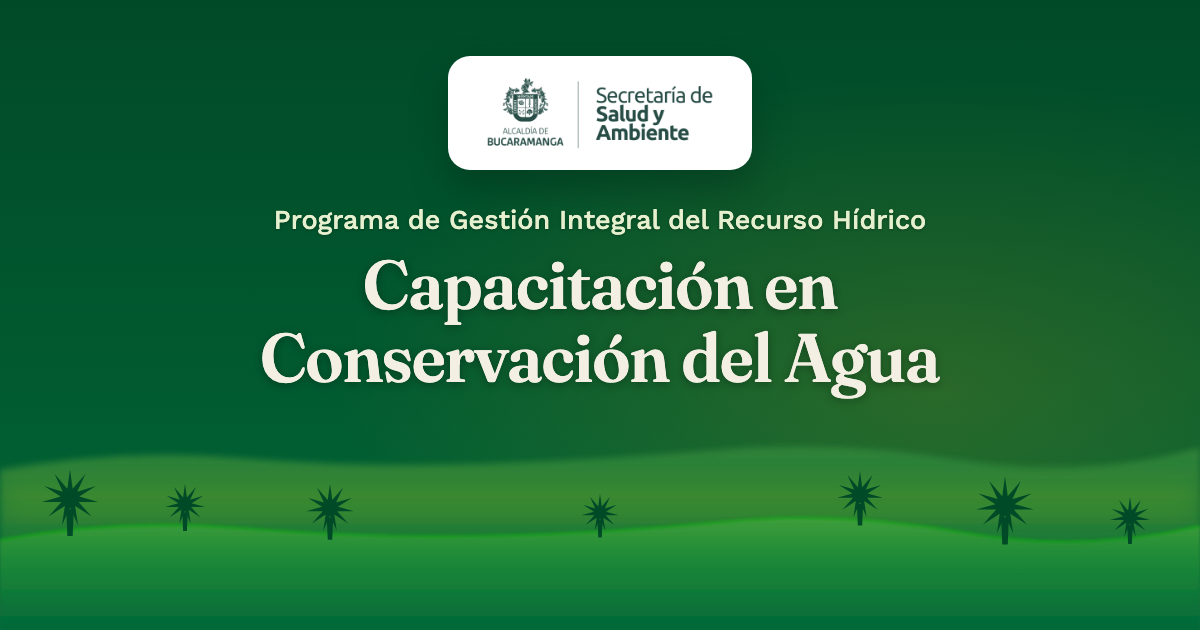
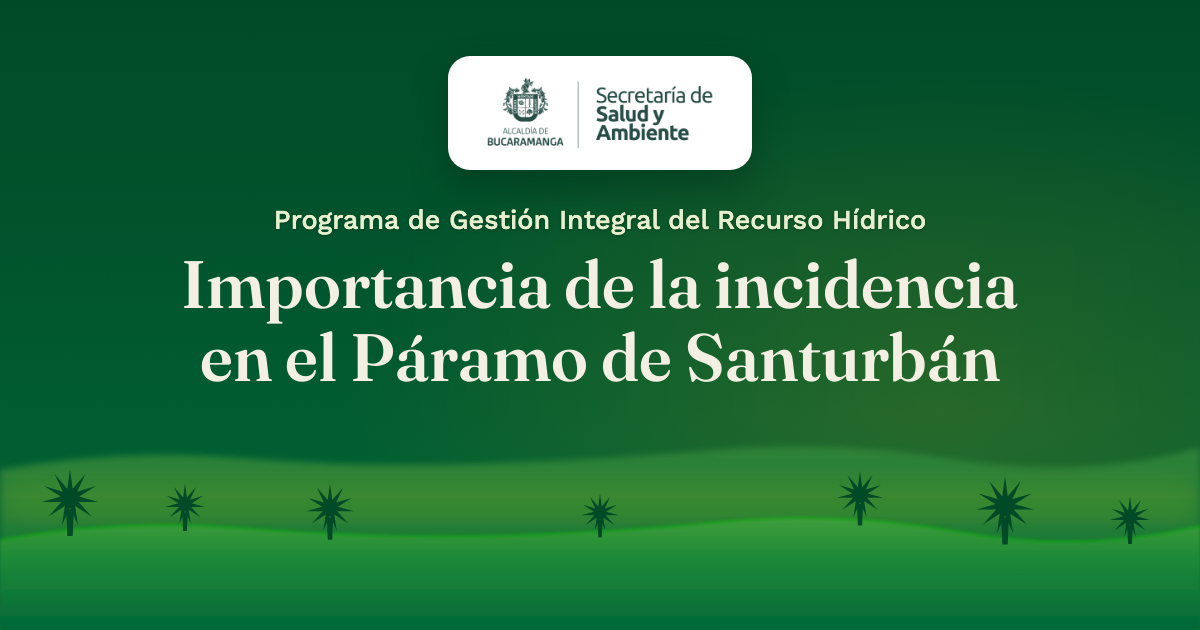
Nuevo nombre del curso: Importancia de la incidencia en el Páramo de Santurbán
Cambia el título de la pestaña, el encabezado, el certificado, la imagen y los textos de vista previa al compartir.

Changed region(s): [[0.1542, 0.3921, 0.8633, 0.6333]]

diff --git a/index.html b/index.html
@@ -3,24 +3,24 @@
 <head>
 <meta charset="UTF-8">
 <meta name="viewport" content="width=device-width, initial-scale=1, viewport-fit=cover">
-<title>Capacitación en Conservación del Agua</title>
+<title>Importancia de la incidencia en el Páramo de Santurbán</title>
 <meta name="description" content="Programa de Gestión Integral del Recurso Hídrico · Alcaldía de Bucaramanga. Completa el curso y descarga tu certificado.">
 <!-- Vista previa al compartir el enlace (WhatsApp, Facebook, etc.). La imagen debe pesar menos de 300 KB -->
 <meta property="og:type" content="website">
 <meta property="og:url" content="https://juanjosece20.github.io/capacitacion-recurso-hidrico/">
 <meta property="og:site_name" content="Alcaldía de Bucaramanga">
-<meta property="og:title" content="Capacitación en Conservación del Agua">
+<meta property="og:title" content="Importancia de la incidencia en el Páramo de Santurbán">
 <meta property="og:description" content="Programa de Gestión Integral del Recurso Hídrico · Alcaldía de Bucaramanga. Completa el curso y descarga tu certificado.">
-<meta property="og:image" content="https://juanjosece20.github.io/capacitacion-recurso-hidrico/og-image.png">
+<meta property="og:image" content="https://juanjosece20.github.io/capacitacion-recurso-hidrico/og-image.png?v=2">
 <meta property="og:image:type" content="image/png">
 <meta property="og:image:width" content="1200">
 <meta property="og:image:height" content="630">
-<meta property="og:image:alt" content="Paisaje de páramo con frailejones, logo de la Alcaldía de Bucaramanga y el texto Capacitación en Conservación del Agua">
+<meta property="og:image:alt" content="Paisaje de páramo con frailejones, logo de la Alcaldía de Bucaramanga y el texto Importancia de la incidencia en el Páramo de Santurbán">
 <meta property="og:locale" content="es_CO">
 <meta name="twitter:card" content="summary_large_image">
-<meta name="twitter:title" content="Capacitación en Conservación del Agua">
+<meta name="twitter:title" content="Importancia de la incidencia en el Páramo de Santurbán">
 <meta name="twitter:description" content="Programa de Gestión Integral del Recurso Hídrico · Alcaldía de Bucaramanga. Completa el curso y descarga tu certificado.">
-<meta name="twitter:image" content="https://juanjosece20.github.io/capacitacion-recurso-hidrico/og-image.png">
+<meta name="twitter:image" content="https://juanjosece20.github.io/capacitacion-recurso-hidrico/og-image.png?v=2">
 <meta name="theme-color" content="#016737">
 <link rel="preconnect" href="https://fonts.googleapis.com">
 <link rel="preconnect" href="https://fonts.gstatic.com" crossorigin>
@@ -893,7 +893,7 @@
[1 lines of base64/hex data omitted]
       </div>
       <p class="eyebrow">Programa de Gestión Integral del Recurso Hídrico</p>
-      <h1>Capacitación en Conservación del Agua</h1>
+      <h1>Importancia de la incidencia en el Páramo de Santurbán</h1>
     </div>
   </div>
 
@@ -1701,7 +1701,7 @@
   // ===== Datos del certificado — completar cuando estén confirmados =====
   // Deja en null lo que aún no esté definido: aparece resaltado en el boceto.
   const CERT = {
-    curso: null,          // Nombre oficial del curso
+    curso: "Importancia de la incidencia en el Páramo de Santurbán", // Nombre oficial del curso
     firmante: null,       // Nombre de quien firma
     cargoFirmante: null,  // Cargo de quien firma
     programa: "Programa de Gestión Integral del Recurso Hídrico",
